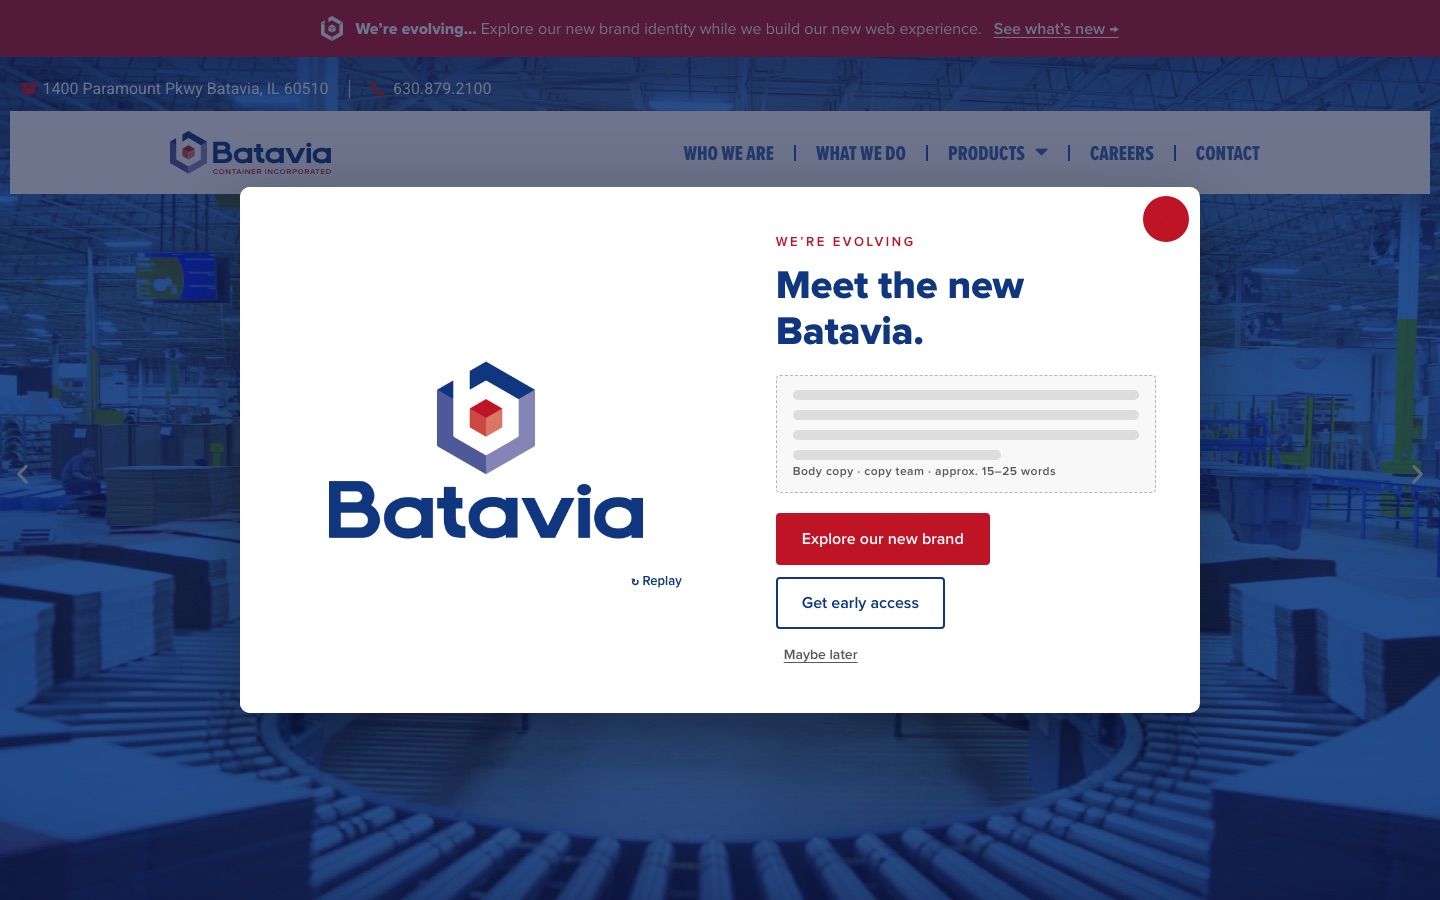
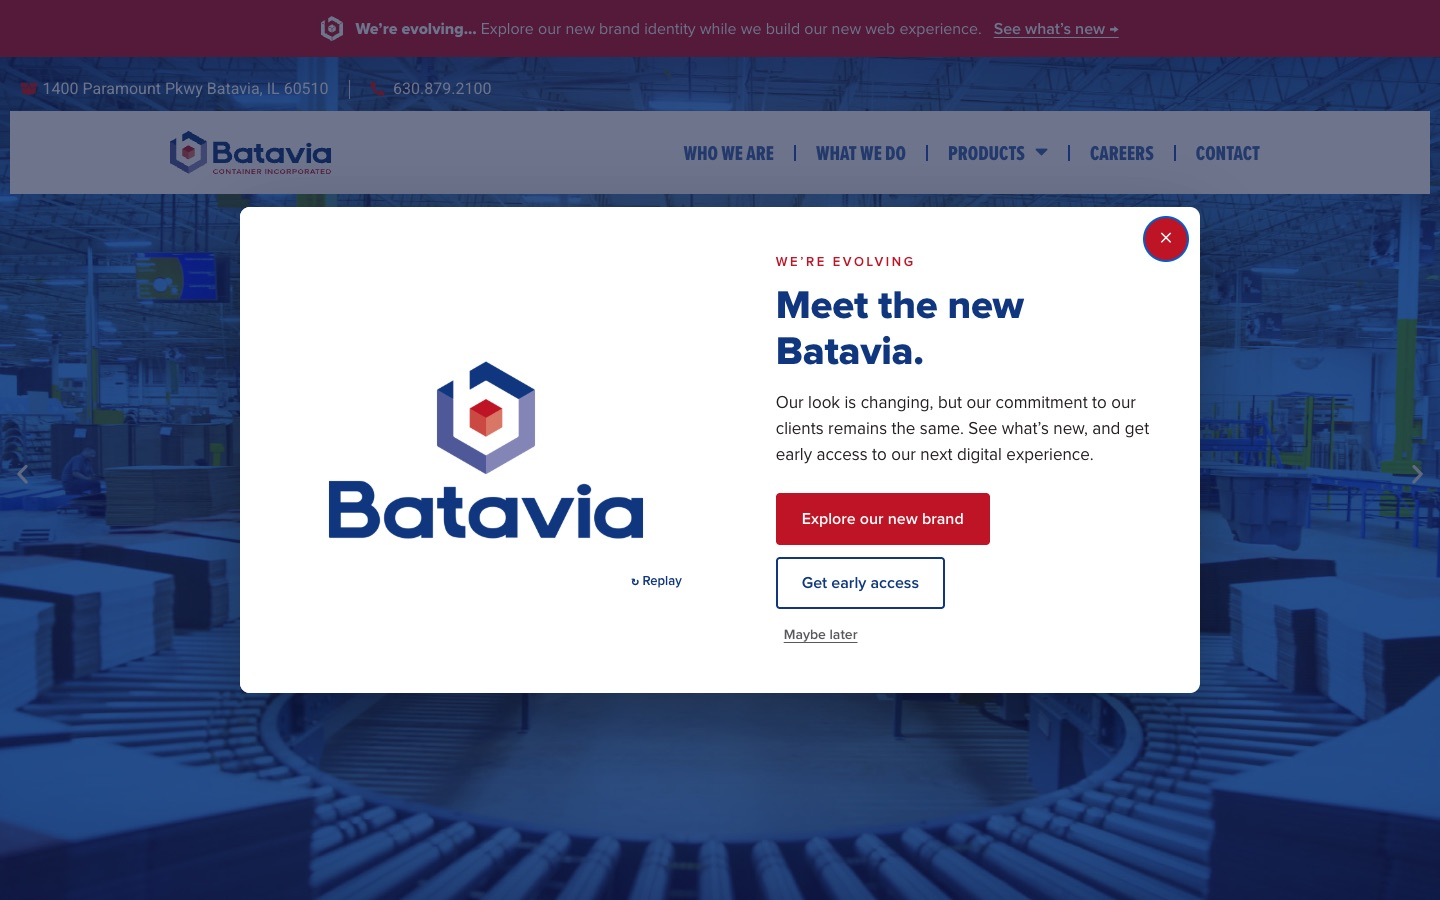
Update review mockups

Changed region(s): [[0.1562, 0.1867, 0.8438, 0.8089]]

diff --git a/live/homepage-option2.html b/live/homepage-option2.html
@@ -787,7 +787,7 @@ var e="script#wp-emoji-settings",t=document.querySelector(e);if(!(t instanceof H
     <div class="p1-pop__body">
       <p class="eyebrow">We’re evolving</p>
       <h2 id="p1PopTitle">Meet the new Batavia.</h2>
-      <div class="copy-tbd"><span>Body copy · copy team · approx. 15–25 words</span></div>
+      <p class="body-copy p1-pop__copy">Our look is changing, but our commitment to our clients remains the same. See what’s new, and get early access to our next digital experience.</p>
       <div class="p1-pop__ctas">
         <a class="btn btn--red" href="brand-evolution.html">Explore our new brand</a>
         <a class="btn btn--outline" href="brand-evolution.html#early-access">Get early access</a>

diff --git a/live/homepage-popup.css b/live/homepage-popup.css
@@ -123,3 +123,7 @@ html.p1-pop-lock { overflow: hidden; }
 .p1-pop__card { border-top: 0; }
 .p1-pop__x { color: var(--red-1); background: rgba(255,255,255,.9); }
 .p1-pop__x:hover, .p1-pop__x:focus-visible { color: #fff; background: var(--red-1); }
+
+/* Body copy (Nov 15): desktop only, hidden in the slim phone sheet like the old placeholder */
+.p1-pop .p1-pop__copy { font-size: 17px; line-height: 26px; margin-bottom: 24px; }
+@media (max-width: 567px), (max-width: 767px) and (min-height: 521px) { .p1-pop .p1-pop__copy { display: none; } }
